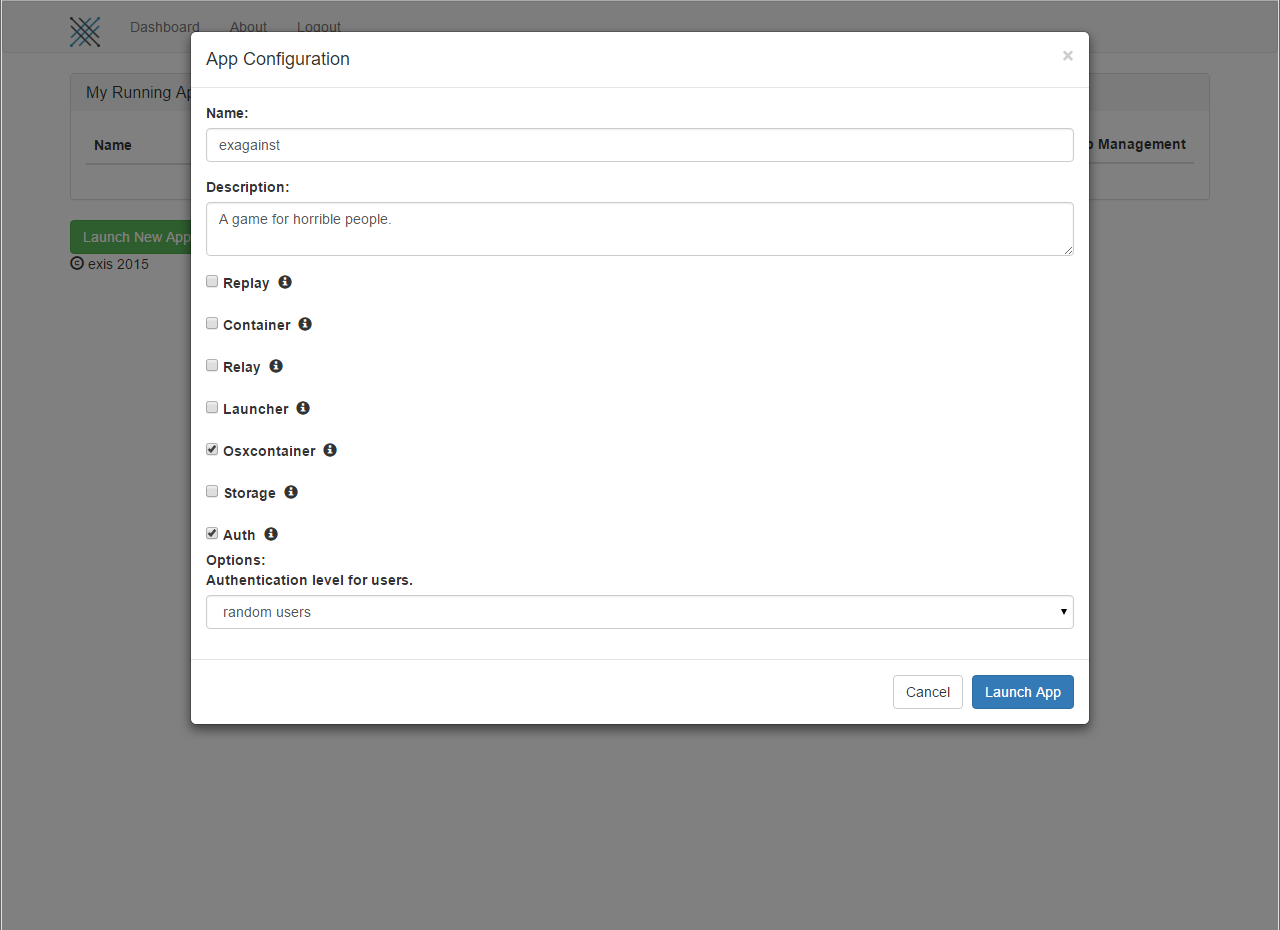
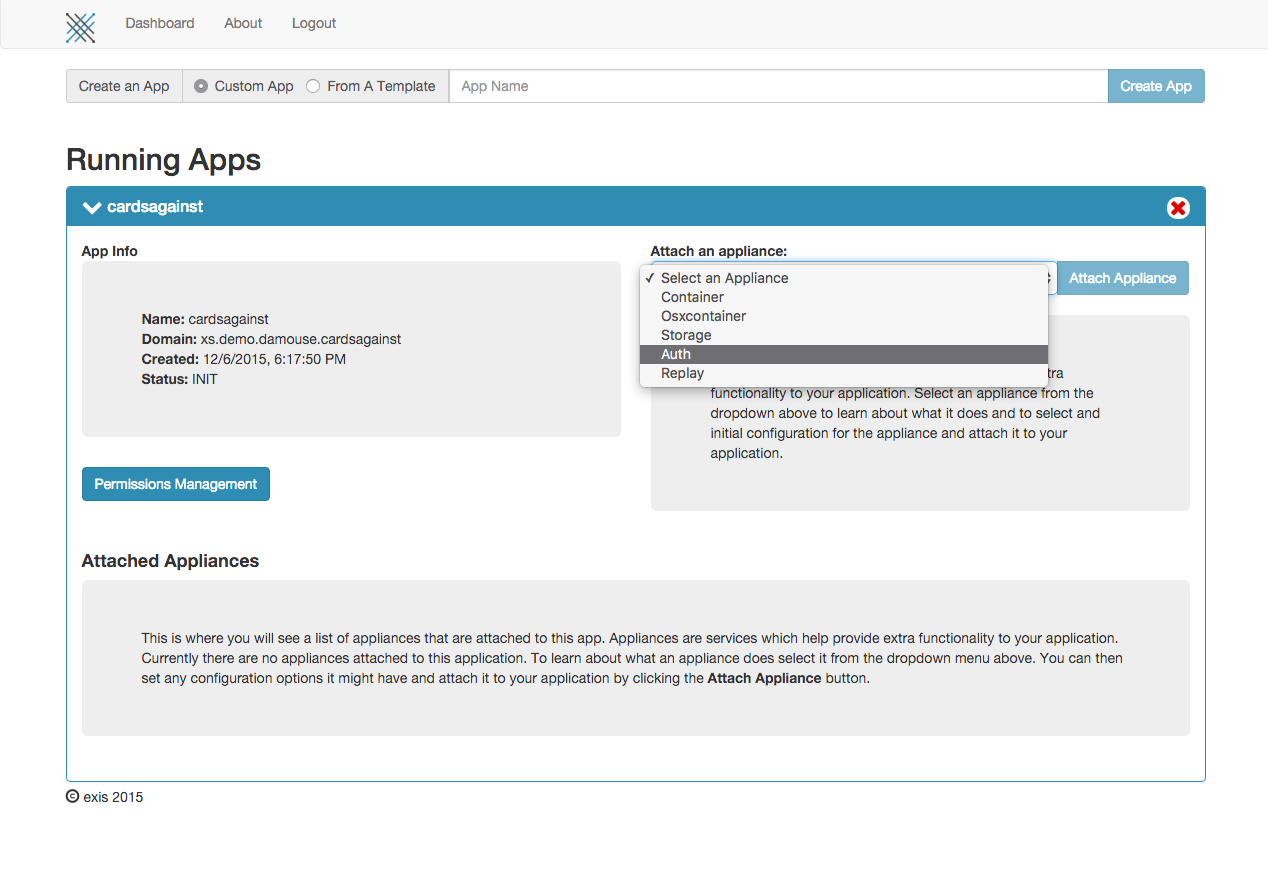
updated images and tutorial

diff --git a/pages/samples/SwiftCardsTutorial.md b/pages/samples/SwiftCardsTutorial.md
@@ -4,83 +4,63 @@ Cards Against Humanity is a party game in which players complete fill-in-the-bla
 
 Cards Against is played between a set of peers, so it seems like the game should be able to run peer to peer, or each player communicating directly with other players. Like all cards games, however, we have to watch out for cheaters! In order to maintain the state of the game and make sure play is fair we'll rely on a *container*, or a program running in the cloud. This container will fufill the role traditionally filled by web servers. 
 
-See [getting started](/pages/samples/Getting-Started.md) to set up an iOS project for development with a fabric. For this tutorial you will need the *iOS and Backend* project. If you're just getting started don't worry about setup, download the preconfigured projects. 
+Head to [github](https://github.com/exis-io/Exis/tree/master/ios) to set up an iOS project for development with a fabric. For this tutorial you will need the *iOS and Backend* project.
 
 ## Website Setup
 
 You control the way you interact with Exis through a web interface. This includes creating applications, setting security details, and adding appliances to your applications. 
 
-We have to perform some basic setup before we can make our Hello, World exis application. Head over to [my.exis.io](http://my.exis.io) and sign up for an account.
+We have to perform some basic setup before we can make our Hello, World exis application. Head over to [my.exis.io](http://my.exis.io), sign up for an account, and log in. 
 
 ![Missing Image!](/img/ios-cards-tutorial/web/1-setup/1.PNG)
 
-Navigate to the dashboard.
-
-![Missing Image!](/img/ios-cards-tutorial/web/1-setup/2.PNG)
-
-Create a new application. The name you choose here will become part of your domain. Make sure to spell *exagainst* correctly. Be sure to check the *Auth* and *Osxcontainer* checkboxes!
+Navigate to the dashboard and create a new application. The name you choose here will become part of your domain. Make sure to spell *cardsagainst* correctly. 
 
 ![Missing Image!](/img/ios-cards-tutorial/web/1-setup/3.PNG)
 
-Once the app is created you should see the two appliances, *Auth* and *Osxcontainer* started up and running. 
+Once the app is created, we're going to attach *appliances*: *Auth* and *Osxcontainer*. Auth helps your application keep track of users, while the container runs your code in the cloud. 
 
 ![Missing Image!](/img/ios-cards-tutorial/web/1-setup/4.PNG)
 
 All messages over the fabric have to have [*Permissions*][perm]. This allows agents to send messages. For our *Hello, World!* we'll add a static permission that allows your app to call `hello` on the container. 
 
-From the dashboard click on the blue *Permissions* button. Once on the permissions page, click *Create Static Role*.
-
-![Missing Image!](/img/ios-cards-tutorial/web/1-setup/5.PNG)
-
-The endpoint is the destination of the function call, the container in our case. The agent is a hardcoded domain. 
-
-Make sure to replace `damouse` in the domains below with your username! If your username is `joebob` your endpoint should read: 
-
-```
-xs.demo.joebob.exagainst.container/hello
-```
-
-And agent:
-
-```
-xs.demo.joebob.exagainst.userone
-```
+From the dashboard click on the blue *Permissions* button. On the permissions page click on the *User* accordion at the top of the page. Enter `.gamelogic/hello` into the field and click add.
 
 ![Missing Image!](/img/ios-cards-tutorial/web/1-setup/6.PNG)
 
-Once you're finished, click on *Create Role*.
+The `User Role` is a set of permissions thats given to all domains representing users of your application.
 
 ## Hello, Riffle
 
-The projects should be set up and ready to run, but lets take a quick break for a `Hello, World!`. You'll register a function in the OSX app and call it from the iOS app.
+The projects should be set up and ready to run, but lets take a quick break for a `Hello, World!`. You'll register a function in the OSX app and call it from the iOS app. 
 
-Remember that the OSX project will eventually run persistently in the cloud. For now, you can test with the app running locally. Because the OSX app will run in a container, we'll refer to it as the *backend* or *container* interchangeably from here on out. 
+Remember that the OSX project will eventually run persistently in the cloud. For now, you can test with the app running locally. Because the OSX app will run in a container, we'll refer to it as the *backend* from here on out. 
 
 Add the following code to `main.swift` in the OSX app. The `app` instance variable is a `RiffleAgent`. It accepts the domain of your app, make sure to substitute your own user domain instead of the one listed below!
 
 For example, if your username is `joebob`, replace 
 
 ```
-let app = RiffleAgent(domain: "xs.demo.damouse.exagainst")
+let app = RiffleAgent(domain: "xs.demo.exis.cardsagainst")
 ```
 
 with 
 
 ```
-let app = RiffleAgent(domain: "xs.demo.joebob.exagainst")
+let app = RiffleAgent(domain: "xs.demo.joebob.cardsagainst")
 ```
 
 
-```
+```swift
 import Foundation
 import Riffle
 
-// Replace "damouse" with your own username!
-let app = RiffleAgent(domain: "xs.demo.damouse.exagainst")
+let app = RiffleDomain(domain: "xs.demo.exis.cardsagainst")
 
-class ContainerAgent: RiffleAgent {
+class Container: RiffleDomain {
     override func onJoin() {
-        print("Agent joined")
+        print("Domain joined")
+        
         register("hello", sayHi)
     }
     
@@ -90,9 +70,8 @@ class ContainerAgent: RiffleAgent {
     }
 }
 
-let container = ContainerAgent(name: "container", superdomain: app)
+let container = Container(name: "gamelogic", superdomain: app)
 container.join()
-
 NSRunLoop.currentRunLoop().run()
 ```
 
@@ -100,43 +79,49 @@ In the iOS app add a button to the empty view controller created when you made t
 
 ![Missing Image!](/img/ios-cards-tutorial/app/2-hello/1.PNG)
 
-Add the following code to your view controller. Again, replace the username listed in the domain with your own. 
+Replace the code in `ViewController.swift` with the code below. Again, replace the `exis` domain with your own!
 
-```
+```swift
 import UIKit
 import Riffle
 
 class ViewController: UIViewController, RiffleDelegate {
-    var app: RiffleAgent?
-    var me: RiffleAgent?
-    var container: RiffleAgent?
+    var app: RiffleDomain!
+    var me: RiffleDomain!
+    var backend: RiffleDomain!
     
-     @IBAction func go(sender: AnyObject) {
+    
+    @IBAction func go(sender: AnyObject) {
+        Riffle.setDevFabric()
         
-        app = RiffleAgent(domain: "xs.demo.damouse.exagainst")
-        me = RiffleAgent(name: "userone", superdomain: app!)
-        me!.delegate = self
-        me!.join()
+        app = RiffleDomain(domain: "xs.demo.exis.cardsagainst")
+        me = RiffleDomain(name: "userone", superdomain: app!)
+        me.delegate = self
+        me.join()
     }
     
     func onJoin() {
-        print("Agent joined!")
+        print("Domain joined!")
         print("Sending a greeting to the backend!")
         
-        container = RiffleAgent(name: "container", superdomain: app!)
+        backend = RiffleDomain(name: "gamelogic", superdomain: app)
         
-        container!.call("hello", me!.domain) { (greeting: String) -> () in
+        backend.call("hello", me!.domain) { (greeting: String) -> () in
             print("The backend replied with \(greeting)")
         }
     }
     
     func onLeave() {
-        print("Session left!")
+        print("Domain left!")
     }
 }
 ```
 
-Run both your apps. Watch the output of the container-- once you see that its session has connected with `Session Joined!` touch the button you added to your app. If you see the name of the app passed to the container and back, celebrate-- you've successfully written your first exis enabled application!
+Run the backend, then the app. When you run two targets, or programs, in one Xcode project, Xcode will always display output from the last target run. To switch between outputs change the active target in the debug console.
+
+![Missing Image!](/img/ios-cards-tutorial/app/2-hello/6.PNG)
+
+Watch the output of the backend-- once you see that its session has connected with `Domain Joined!` touch the button you added to your app. If you see the name of the app passed to the container and back, celebrate-- you've successfully written your first exis enabled application!
 
 Here's some sample output from an app on the left and a container on the right. 
 
@@ -155,31 +140,24 @@ The user needs a way to input their name. Add a textfield to your view controlle
 Now change the `go` method you created as an action for the button: 
 
 ```
-@IBAction func go(sender: AnyObject) { 
-    // Make the keyboard go away       
+@IBAction func go(sender: AnyObject) {
+    // Make the keyboard go away
     textfieldUsername.resignFirstResponder()
     let name = textfieldUsername.text!
     
     // Create the domain for this user based on the name they've submitted
-    app = RiffleAgent(domain: "xs.demo.damouse.exagainst")
-    me = RiffleAgent(name: name, superdomain: app!)
-    me!.delegate = self
-    me!.join()
+    app = RiffleDomain(domain: "xs.demo.exis.cardsagainst")
+    me = RiffleDomain(name: name, superdomain: app!)
+    me.delegate = self
+    me.join()
 }
 ```
 
-We have a bit of a problem. Every message on the fabric needs a permission, and each permissions is the agent sending the message and the endpoint the message is headed for. Lets examine our *Hello, World!* permission: 
 
-```
-Agent:       xs.demo.damouse.exagainst.userone
-Endpoint:    xs.demo.damouse.exagainst.container/hello
-```
-
-Because user domains always include their name, how can you give permissions to *all* users? Enter the `Role`. Roles are a set of permissions that can be assigned to all agents. In order to give all users access to the `/hello` function you're going to edit the *User* role. The *User* role holds permissions given to every user.
-
+<!-- 
 Head back to the permissions page on [my.exis.io](my.exis.io). Click on *Update Role* in the *User Role* section. Add the endpoint below, substiting your own username for `damouse`. 
 
-![Missing Image!](/img/ios-cards-tutorial/web/2-perms/3.PNG)
+![Missing Image!](/img/ios-cards-tutorial/web/2-perms/3.PNG) -->
 
 ### Playing
 
@@ -191,7 +169,7 @@ Lets give the app the ability to start playing. Remember that the container is g
 
 Thankfully the node will provide. When an agent disconnects from the fabric, the node they were connected to publishes a special message *in its parent domain.* This message is published to the action `/sessionLeft`. In order for the container to receive this message we have to give it the appropriate permission.
 
-Create a new static permission to match the image shown below. Again, remember to substitue your own username for `damouse` in both domains. Note the `:s` at the end of the endpoint! This gives the agent permission to *subscribe*.
+Create a new role named `container` to match the image shown below. Again, remember to substitue your own username for `damouse` in both domains. 
 
 ![Missing Image!](/img/ios-cards-tutorial/web/2-perms/1.PNG)
 
@@ -201,7 +179,7 @@ In the container `Agent` object you previously made, add the following line to `
 app.subscribe("sessionLeft", sessionLeft)
 ```
 
-The `sessionLeft` argument passed as the last argument to the subscribe method is a pointer to a function. You'll also need to implement the function inside the *ContainerAgent* class.
+The `sessionLeft` argument passed as the last argument to the subscribe method is a pointer to a function. You'll also need to implement the function inside the *Container* class.
 
 ```
 func sessionLeft(domain: String) {
@@ -211,7 +189,7 @@ func sessionLeft(domain: String) {
 
 As the name implies, we should see this method get called when any user leaves the app. Go ahead and try it out-- run the container and the app again. Once the app is connected and authenticated terminate the app and watch the console output for the container. 
 
-![Missing Image!](/img/ios-cards-tutorial/app/3-auth/2.PNG)
+<!-- ![Missing Image!](/img/ios-cards-tutorial/app/3-auth/2.PNG) -->
 
 ## Passing Data
 
@@ -219,9 +197,9 @@ We're missing the actual cards in our card game! Time to fix that. In this secti
 
 Riffle provides a useful wrapper model named *RiffleModel*. These classes are special-- you don't have to manually serialize them to send them to other agents. 
 
-Unfortunatly, there's an important limitation to keep in mind when working with RiffleModels in Xcode. Sadly, the process of working with two targets, or apps, in the same Xcode project is currently unstable. When an agent receives a RiffleModel it has to have the definition of the class in the same project. This means you'll need to create the Class twice, once for the container and once for the app. 
+<!-- Create a new swift source file in your project. Make sure both Backend and targets are checked when the file is created. -->
 
-Create a new class in both projects. Name it *Card*, make sure it inherits from RiffleModel, and give it one property: a string called *text.*
+<!-- Create a new class in both projects. Name it *Card*, make sure it inherits from RiffleModel, and give it one property: a string called *text.*
 
 ```
 import Foundation
@@ -232,7 +210,7 @@ class Card: RiffleModel {
     var text = ""
 }
 ```
-
+ -->
 The object represents the data, but we still have to build the data. Download the data for the cards [here](/img/pg13.zip). Unzip the file and drag it into your project. Make sure to select *Copy items if needed* and make sure *Add to targets* is checked for your project. 
 
 ![Missing Image!](/img/ios-cards-tutorial/app/4-data/2.PNG)
@@ -246,10 +224,15 @@ When you drag in static content like *JSON* into Xcode it doesn't always copy th
 3. Open the *Copy Items* section
 4. Set *Destination* to *Resources*
 5. Make sure the *subpath* textfield is empty
-6. Uncheck *Copy only when isntalling*
+6. Uncheck *Copy only when installing*
 
-Because each room is going to be a different game of *Cards Against*, each room should have their own deck of cards, represented by a *Deck* object. This model is responsible for tracking cards in play, dealing cards, and shuffling them back into the deck for reuse. 
+<!-- WARN: No more card objects. -->
 
+Because each room is going to be a different game of *Cards Against*, each room should have their own deck of cards.
+
+<!-- WARN: No more decks. -->
+
+<!-- 
 Create a file for the new Deck class. It won't be passed along to the players in the game, so no need to have it subclass RiffleModel or make a copy for the iOS version. 
 
 ```
@@ -276,19 +259,21 @@ class Deck {
         questions = deck.questions
         answers = deck.answers
     }
-}
+} 
 ```
+-->
 
 *Deck*'s initializer accepts two arguments, one for the name of the JSON file (without the *.json* extension!) containing the questions, and the other for the answers. Instantiate the *Deck* in *main.swift* and check its contents:
 
 ```
-var deck = Deck(questionPath: "q13", answerPath: "a13")
-print(deck.questions)
+var baseQuestions = loadCards("q13")
+var baseAnswers = loadCards("a13")
+print(baseQuestions)
 ```
 
-If you see a listing of Card objects then the deck loaded successfully-- if not then there may be something wrong with your project's configuration. Now lets get this content to the iOS app. 
+If you see a listing of Cards as strings then the deck loaded successfully-- if not then there may be something wrong with your project's configuration. Now lets get this content to the iOS app. 
 
-Delete the deck testing code and move the deck instantiation into the Session class as an instance variable. Make a new method in the OSX's *Agent* class for apps to call when they're ready to start playing. Return all the answers in the deck. 
+<!-- Delete the deck testing code and move the deck instantiation into the Session class as an instance variable. Make a new method in the OSX's *Domain* subclass for apps to call when they're ready to start playing. Return all the answers in the deck.  -->
 
 __NOTE:__ all returns from *registered* functions have to be wrapped in an array if they're returning arrays. Note the braces around `deck.answers` below.
 
@@ -406,7 +391,7 @@ func tableView(tableView: UITableView, didSelectRowAtIndexPath indexPath: NSInde
 Once the two are wired up restart the container and the app. When you touch a card in the app, you should see the container report the event:
 
 ```
-[xs.demo.damouse.exagainst.userthree] touched the card: "The ghost of Marlon Brando"
+[xs.demo.damouse.cardsagainst.userthree] touched the card: "The ghost of Marlon Brando"
 ```
 
 ## Conclusion

diff --git a/pages/samples/Samples.md b/pages/samples/Samples.md
@@ -4,11 +4,18 @@ Recipies for exis development.
 
 ## Getting Started
 
-Learn how to set up a project to communicate over the fabric. You can also download preconfigured projects. 
+Applications that communicate over the fabric require the Riffle client libraries. They're all hosted together on [github](https://github.com/exis-io/Exis). You can also head straight to the language of your choice:
 
-# iOS
+* [iOS](https://github.com/exis-io/Exis/tree/master/ios)
+* [Python](https://github.com/exis-io/pyRiffle)
+* [Javascript](https://github.com/exis-io/Exis/tree/master/js)
+* [Go](https://github.com/exis-io/goRiffle)
 
-Download preconfigured projects here. If you publish the app you will have to change the name.
+Each of the links above include instructions on how to install riffle into your own projects. For platforms that are a little more complicated you can download preconfigured projects.
+
+<!-- # iOS
+
+Download preconfigured projects here. 
 
 __Warning:__ Xcode versions below 7.0 are not supported. Additionally, Xcode 7.1 has some conflicts with cocoapods 0.38. If you run into errors with `importing modular import in non modular framework` delete the directory `Pods/Headers/Private`.
 
@@ -105,7 +112,7 @@ In *ViewController.swift* add *import Riffle*. Run the project-- even if it has 
 **Container:** Change the current target to the OSX console app. Add the import to *main.swift* add run again. Ignore the error messages that appear before *Hello, World!*. They're warnings that arise when using Swift libraries in an OSX application. 
 
 ![Missing Image!](/img/setup/ios/9.png)
-
+ -->
 
 
 <!-- 
@@ -231,5 +238,9 @@ Then you forgot to do this step.
 
 [perm]:/pages/security/Permission.md
 
-[pychat]:/pages/samples/Python-Sample-Chat.md
-[pychat]:/pages/samples/Python-Sample-Chat.md
+[cards1]:/pages/samples/SwiftCardsTutorial.md
+[cards2]:/pages/samples/SwiftCardsTutorial2.md
+
+[cards2]:/pages/samples/SwiftCardsTutorial2.md
+
+

diff --git a/pages/general/Home.md b/pages/general/Home.md
@@ -72,17 +72,3 @@ Exis requires at least one node in order for it to function in a meaningful way.
 
 [riffle]:/pages/installing/gettingStarted.md
 
-<!-- [Riffle](/pages/installing/gettingStarted.md
-[Resin.io][resin] 
-
-[Resin.io][resin] makes it simple to deploy, update, and maintain code running on remote devices. We are bringing the web development and deployment workflow to hardware. Using tools like git and docker to allow you to seamlessly update all your embedded linux devices in the wild. We handle cross-compilation, device monitoring, VPNs, and log collection, so you can focus on your product and not the infrastructure.
-
-To get started with resin.io, first read [understanding resin.io][understanding] or you can jump right in with [installing resin.io][installing] to start provisioning some devices and pushing code.
-
-Have fun!
-
-If you have any further questions drop us a mail at **hello@resin.io**.
-
-[resin]:http://resin.io
-[installing]:/pages/installing/gettingStarted.md
-[understanding]:/pages/understanding/understanding-code-deployment.md -->
